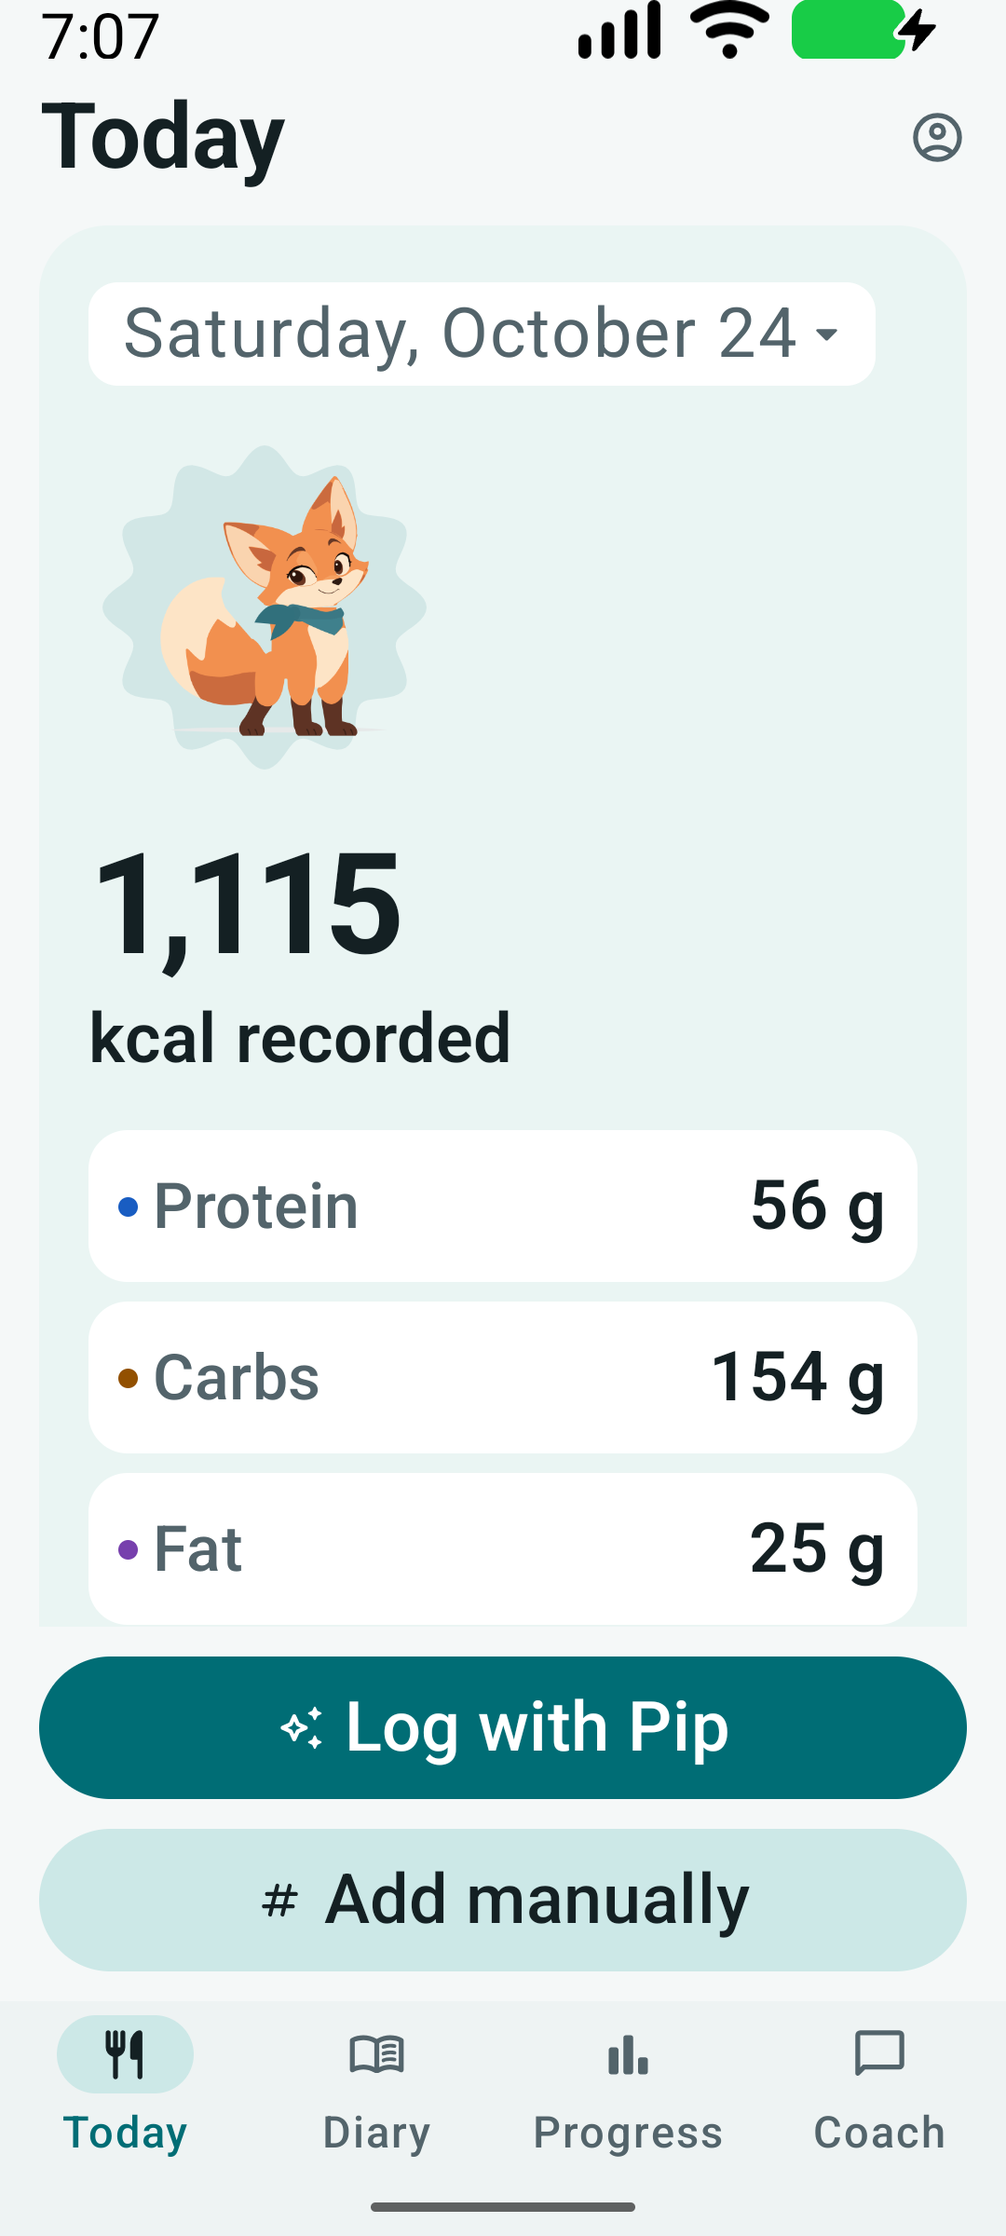
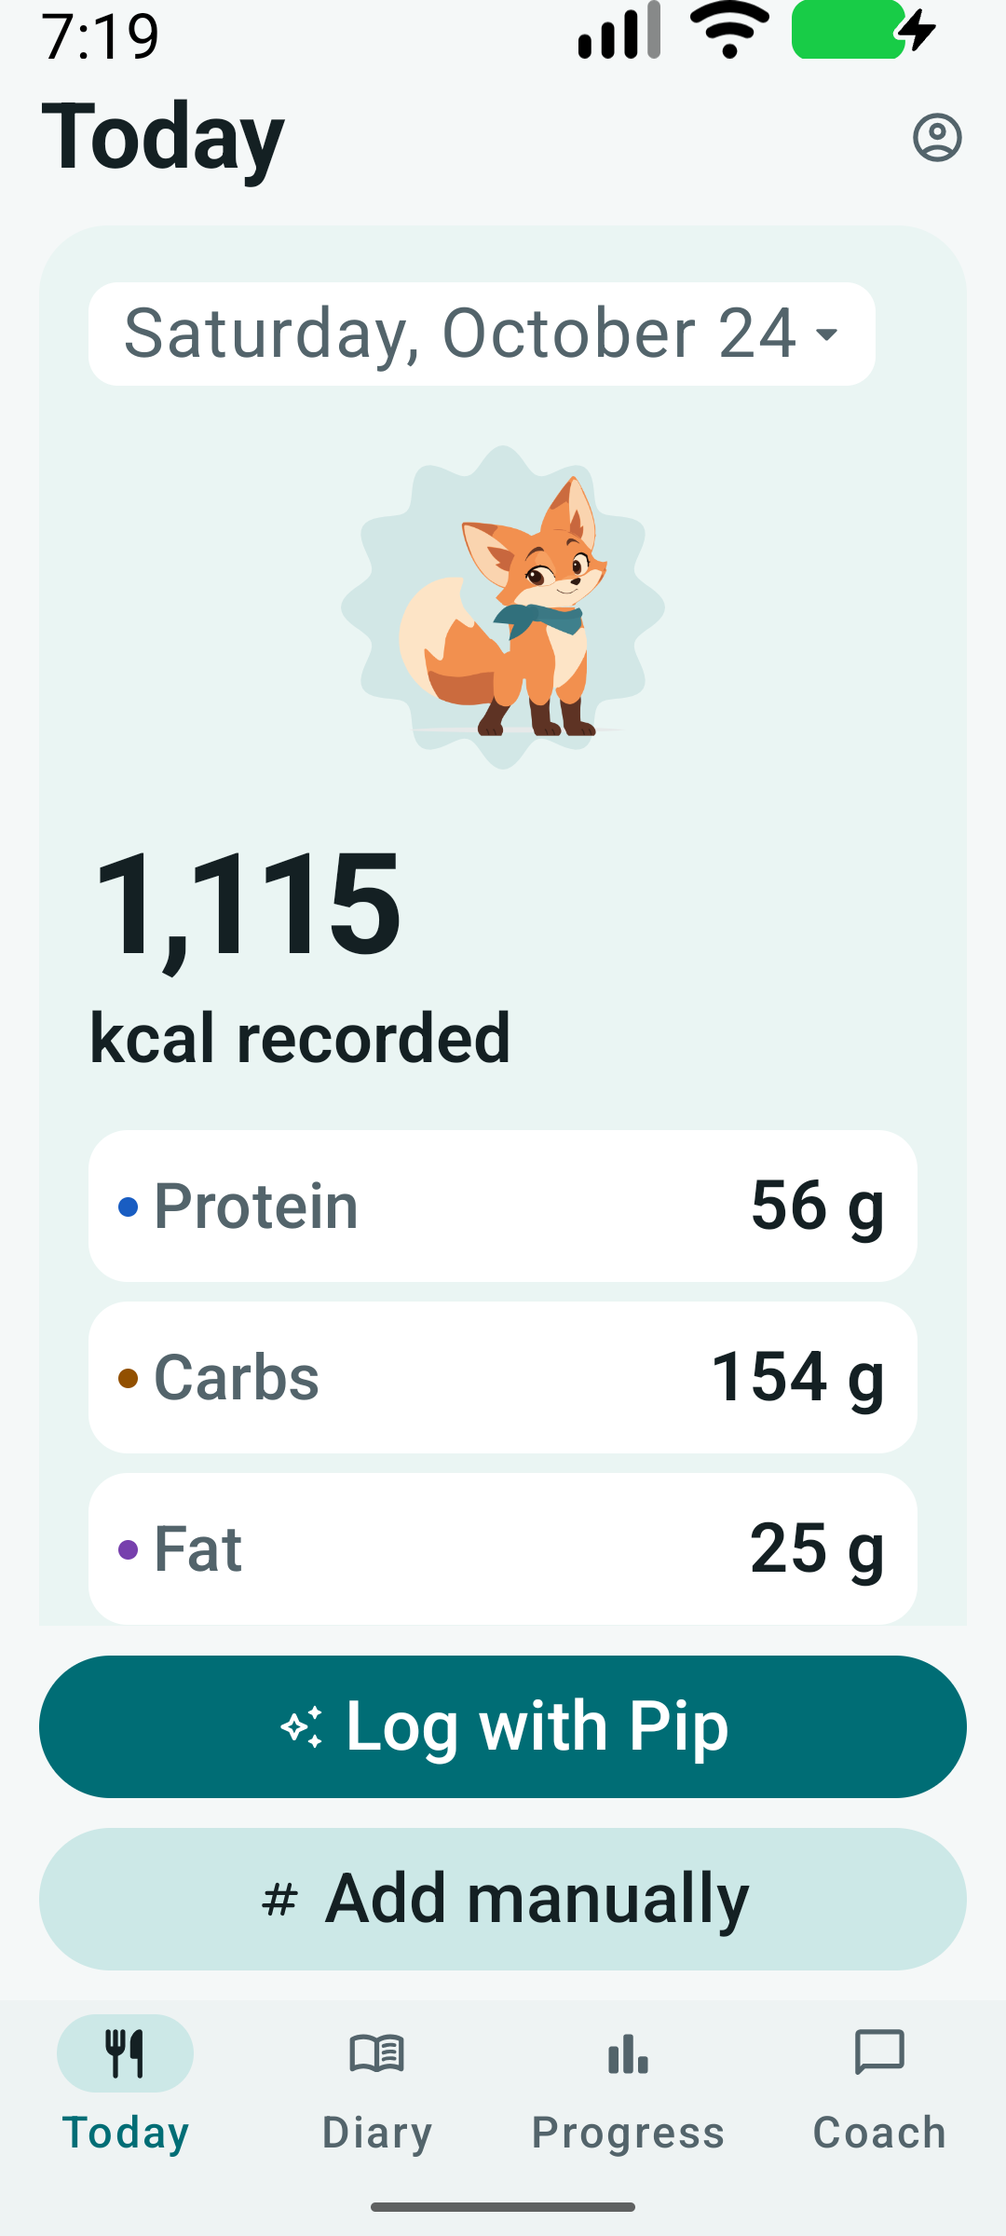
fix(android): keep Today light on memory and report new-day failures

diff --git a/android/app/src/main/java/com/yakov103/mivu/ui/today/TodayScreen.kt b/android/app/src/main/java/com/yakov103/mivu/ui/today/TodayScreen.kt
@@ -29,10 +29,14 @@ import androidx.compose.material3.FilledTonalButton
 import androidx.compose.material3.Icon
 import androidx.compose.material3.LinearProgressIndicator
 import androidx.compose.material3.MaterialTheme
+import androidx.compose.material3.SnackbarHost
+import androidx.compose.material3.SnackbarHostState
 import androidx.compose.material3.Surface
 import androidx.compose.material3.Text
 import androidx.compose.runtime.Composable
+import androidx.compose.runtime.LaunchedEffect
 import androidx.compose.runtime.getValue
+import androidx.compose.runtime.remember
 import androidx.compose.runtime.mutableStateOf
 import androidx.compose.runtime.saveable.rememberSaveable
 import androidx.compose.runtime.setValue
@@ -69,22 +73,27 @@ fun TodayScreen(
     onAddManually: (dayID: UUID?) -> Unit,
     onLogMeal: () -> Unit,
 ) {
+    val snackbar = remember { SnackbarHostState() }
+    LaunchedEffect(viewModel) { viewModel.messages.collect { snackbar.showSnackbar(it, withDismissAction = true) } }
     val state = viewModel.state.collectAsStateWithLifecycle().value ?: return Box(Modifier.fillMaxSize())
     Column(Modifier.fillMaxSize()) {
-        LazyColumn(
-            Modifier.weight(1f).fillMaxWidth(),
-            contentPadding = PaddingValues(start = Gutter, end = Gutter, top = 4.dp, bottom = 16.dp),
-            verticalArrangement = Arrangement.spacedBy(12.dp),
-        ) {
-            if (state.sampleMode) item(key = "sample") { SampleBanner() }
-            state.savedReceipt?.let { id -> item(key = "receipt") { SavedReceipt { onOpenMeal?.invoke(id) } } }
-            item(key = "summary") { SummaryCard(state, viewModel::startNewDay) }
-            item(key = "mealsHeader") {
-                Text("Meals", Modifier.padding(top = 12.dp).semantics { heading() },
-                    style = MaterialTheme.typography.titleLarge, fontWeight = FontWeight.Bold)
+        Box(Modifier.weight(1f).fillMaxWidth()) {
+            LazyColumn(
+                Modifier.fillMaxSize(),
+                contentPadding = PaddingValues(start = Gutter, end = Gutter, top = 4.dp, bottom = 16.dp),
+                verticalArrangement = Arrangement.spacedBy(12.dp),
+            ) {
+                if (state.sampleMode) item(key = "sample") { SampleBanner() }
+                state.savedReceipt?.let { id -> item(key = "receipt") { SavedReceipt { onOpenMeal?.invoke(id) } } }
+                item(key = "summary") { SummaryCard(state, viewModel::startNewDay) }
+                item(key = "mealsHeader") {
+                    Text("Meals", Modifier.padding(top = 12.dp).semantics { heading() },
+                        style = MaterialTheme.typography.titleLarge, fontWeight = FontWeight.Bold)
+                }
+                if (state.meals.isEmpty()) item(key = "empty") { FirstMealCard() }
+                items(state.meals, key = { it.id }) { meal -> MealCard(meal, viewModel::photoBytes, onOpenMeal) }
             }
-            if (state.meals.isEmpty()) item(key = "empty") { FirstMealCard() }
-            items(state.meals, key = { it.id }) { meal -> MealCard(meal, onOpenMeal) }
+            SnackbarHost(snackbar, Modifier.align(Alignment.BottomCenter).padding(horizontal = Gutter))
         }
         BottomActions(state.sampleMode, onLogWithPip, { onAddManually(state.activeDayID) }, onLogMeal)
     }
@@ -97,7 +106,7 @@ private fun SummaryCard(state: TodayUiState, onStartNewDay: () -> Unit) {
         Column(Modifier.padding(20.dp), verticalArrangement = Arrangement.spacedBy(16.dp)) {
             DayActions(state.displayDate, onStartNewDay)
             if (large) {
-                Pip(144.dp)
+                Box(Modifier.fillMaxWidth(), contentAlignment = Alignment.Center) { Pip(144.dp) }
                 Intake(state)
             } else {
                 Row(verticalAlignment = Alignment.CenterVertically, horizontalArrangement = Arrangement.spacedBy(8.dp)) {
@@ -121,6 +130,7 @@ private fun SummaryCard(state: TodayUiState, onStartNewDay: () -> Unit) {
                 Text("Some nutrients are unknown. Recorded totals may be incomplete.",
                     style = MaterialTheme.typography.bodySmall, color = MaterialTheme.colorScheme.onSurfaceVariant)
             }
+            // shortcut: iOS offers "Set a goal" / "Edit goals" here when there is no kcal target; add it with the goal editor.
             state.goal?.let { Goal(it, large) }
         }
     }
@@ -226,9 +236,9 @@ private fun FirstMealCard() {
 }
 
 @Composable
-private fun MealCard(meal: DiaryMeal, onOpenMeal: ((UUID) -> Unit)?) {
+private fun MealCard(meal: DiaryMeal, loadPhoto: suspend (UUID, UUID) -> ByteArray?, onOpenMeal: ((UUID) -> Unit)?) {
     WhiteCard(Modifier.testTag("mealRow"), onClick = onOpenMeal?.let { { it(meal.id) } }) {
-        MealRow(meal, Modifier.padding(16.dp))
+        MealRow(meal, loadPhoto, Modifier.padding(16.dp))
     }
 }
 

diff --git a/android/app/src/main/java/com/yakov103/mivu/diary/DiaryDatabase.kt b/android/app/src/main/java/com/yakov103/mivu/diary/DiaryDatabase.kt
@@ -8,6 +8,7 @@ import android.database.DatabaseUtils
 import android.database.sqlite.SQLiteConstraintException
 import android.database.sqlite.SQLiteDatabase
 import android.database.sqlite.SQLiteDatabaseLockedException
+import android.database.sqlite.SQLiteDoneException
 import android.os.ParcelFileDescriptor
 import androidx.annotation.VisibleForTesting
 import java.io.Closeable
@@ -114,9 +115,12 @@ class DiaryDatabase private constructor(private val db: SQLiteDatabase, private 
         fun isLive(kind: Tombstone, id: UUID): Boolean = exists(kind.name, id)
         fun isTombstoned(kind: Tombstone, id: UUID): Boolean = exists("tombstone_${kind.name}", id)
         fun days(): List<TrackingDay> = this@DiaryDatabase.days()
-        /** One day's meals, as iOS `readModel`: bounded by the day instead of loading every meal's photos. */
+        /**
+         * One day's meals for list screens, as iOS `readModel`: photos carry their ID and metadata with empty `data`;
+         * read the bytes one photo at a time with [photoBytes].
+         */
         fun dayMeals(dayID: UUID): List<DiaryMeal> =
-            records("meal", DiaryMeal.serializer(), "parent = ?", dayID).mapNotNull { meal(it.second.id) }
+            meals("parent = ?", "parent IN (SELECT id FROM meal WHERE parent = ?)", dayID, photoBytes = false)
         fun goals(): List<GoalRecord> = records("goal", GoalRecord.serializer()).map { it.second }
         fun dayWorkouts(dayID: UUID): List<WorkoutSession> = records("workout", WorkoutSession.serializer(), "parent = ?", dayID).map { it.second }
         fun coachTurnsWithoutPhotos(): List<CoachTurn> = this@DiaryDatabase.coachTurnsWithoutPhotos()
@@ -256,6 +260,12 @@ class DiaryDatabase private constructor(private val db: SQLiteDatabase, private 
             else runCatching { UUID.fromString(it.getString(0)) to UUID.fromString(it.getString(1)) }
                 .getOrElse { throw DiaryError.InvalidData("submission") }
         }
+    }
+
+    /** One meal photo's bytes, or null when the photo is gone. */
+    fun photoBytes(mealID: UUID, photoID: UUID): ByteArray? = immediate {
+        head() // owner check
+        try { bytes("photo", "${mealID.key}/${photoID.key}") } catch (_: SQLiteDoneException) { null }
     }
 
     fun head(): Head = readHead() ?: throw DiaryError.InvalidData("no diary")
@@ -438,17 +448,20 @@ class DiaryDatabase private constructor(private val db: SQLiteDatabase, private 
             row to value
         }
 
-    private fun photos(table: String, where: String? = null, arg: UUID? = null): Map<String?, List<MealPhoto>> =
-        records(table, MealPhoto.serializer(), where, arg).groupBy({ it.first.parent }, { (r, p) -> p.copy(data = bytes(table, r.id)) })
+    private fun photos(table: String, where: String? = null, arg: UUID? = null, withBytes: Boolean = true): Map<String?, List<MealPhoto>> =
+        records(table, MealPhoto.serializer(), where, arg)
+            .groupBy({ it.first.parent }, { (r, p) -> if (withBytes) p.copy(data = bytes(table, r.id)) else p })
 
     private fun days(id: UUID? = null) = records("day", TrackingDay.serializer(), id?.let { "id = ?" }, id).map { it.second }
 
-    private fun meals(id: UUID? = null): List<DiaryMeal> {
-        val child = id?.let { "parent = ?" }
-        val submissions = records("submission", MealSubmission.serializer(), child, id).groupBy({ it.first.parent }, { it.second })
-        val items = records("item", FoodItem.serializer(), child, id).groupBy({ it.first.parent }, { it.second })
-        val photos = photos("photo", child, id)
-        return records("meal", DiaryMeal.serializer(), id?.let { "id = ?" }, id).map { (_, m) ->
+    private fun meals(id: UUID? = null): List<DiaryMeal> = meals(id?.let { "id = ?" }, id?.let { "parent = ?" }, id)
+
+    /** Meals matching [where] with their children matching [childWhere], both bound to [arg]. */
+    private fun meals(where: String?, childWhere: String?, arg: UUID?, photoBytes: Boolean = true): List<DiaryMeal> {
+        val submissions = records("submission", MealSubmission.serializer(), childWhere, arg).groupBy({ it.first.parent }, { it.second })
+        val items = records("item", FoodItem.serializer(), childWhere, arg).groupBy({ it.first.parent }, { it.second })
+        val photos = photos("photo", childWhere, arg, photoBytes)
+        return records("meal", DiaryMeal.serializer(), where, arg).map { (_, m) ->
             m.copy(items = items[m.id.key].orEmpty(), photos = photos[m.id.key].orEmpty(), submissions = submissions[m.id.key].orEmpty())
         }
     }

diff --git a/android/app/src/main/java/com/yakov103/mivu/ui/today/TodayViewModel.kt b/android/app/src/main/java/com/yakov103/mivu/ui/today/TodayViewModel.kt
@@ -3,6 +3,7 @@ package com.yakov103.mivu.ui.today
 import android.text.format.DateFormat
 import androidx.lifecycle.ViewModel
 import androidx.lifecycle.viewModelScope
+import com.yakov103.mivu.diary.DiaryError
 import com.yakov103.mivu.diary.DiaryMeal
 import com.yakov103.mivu.diary.DiaryRepository
 import com.yakov103.mivu.diary.GoalRecord
@@ -19,7 +20,11 @@ import java.util.Locale
 import java.util.UUID
 import kotlin.math.abs
 import kotlinx.coroutines.Dispatchers
+import kotlinx.coroutines.channels.Channel
+import kotlinx.coroutines.flow.Flow
 import kotlinx.coroutines.flow.MutableStateFlow
+import kotlinx.coroutines.flow.receiveAsFlow
+import kotlinx.coroutines.withContext
 import kotlinx.coroutines.flow.SharingStarted
 import kotlinx.coroutines.flow.StateFlow
 import kotlinx.coroutines.flow.combine
@@ -72,20 +77,41 @@ class TodayViewModel(private val repository: DiaryRepository, private val profil
     /** The "Saved on this phone" receipt after a capture screen saves [mealID]. */
     fun showReceipt(mealID: UUID) { receipt.value = mealID }
 
-    /** No confirmation, as iOS: a repeated start reuses the open day. */
+    private val _messages = Channel<String>(Channel.BUFFERED)
+
+    /** One-shot failure messages for the snackbar, as iOS's "Could not complete action" alert. */
+    val messages: Flow<String> = _messages.receiveAsFlow()
+
+    /** No confirmation, as iOS: a repeated start reuses the open day. A write that raced this one is retried once. */
     fun startNewDay() {
         viewModelScope.launch(Dispatchers.IO) {
             val db = repository.database(profileID)
-            // shortcut: a failed start (a concurrent write) is dropped like a no-op tap; surface it once Today has an error banner.
-            runCatching { db.startDay(Instant.now(), db.head().revision) }
+            val start = { db.startDay(Instant.now(), db.head().revision) }
+            try {
+                try { start() } catch (_: DiaryError.StaleRevision) { start() }
+            } catch (e: Exception) {
+                _messages.send("Could not complete action. ${failureMessage(e)}")
+            }
         }
     }
+
+    /** The first photo's bytes for a meal thumbnail, read off the main thread. */
+    suspend fun photoBytes(mealID: UUID, photoID: UUID): ByteArray? =
+        withContext(Dispatchers.IO) { runCatching { repository.database(profileID).photoBytes(mealID, photoID) }.getOrNull() }
 
     private fun load(): TodayData = repository.database(profileID).read { tx ->
         val day = tx.head.activeDayID?.let(tx::day)
         if (day == null) TodayData(null, emptyList(), emptyList(), emptyList())
         else TodayData(day, tx.dayMeals(day.id), tx.goals(), tx.dayWorkouts(day.id))
     }
+}
+
+/** iOS `DiaryError.errorDescription` for the errors a Today action can meet, else iOS's fallback. */
+internal fun failureMessage(e: Throwable): String = when (e) {
+    is DiaryError.InvalidData -> "This diary contains invalid or unsupported data."
+    DiaryError.WrongOwner -> "The profile changed. Please try again."
+    DiaryError.NotFound -> "This diary entry no longer exists."
+    else -> "Could not save on this phone. Your input is still here."
 }
 
 internal fun todayUiState(

diff --git a/android/app/src/main/java/com/yakov103/mivu/ui/today/MealRow.kt b/android/app/src/main/java/com/yakov103/mivu/ui/today/MealRow.kt
@@ -85,7 +85,7 @@ val SubmissionState.color: Color
 
 /** One meal: thumbnail, title, time or state, kcal when saved, and its macro bar. Stacks at large text. */
 @Composable
-fun MealRow(meal: DiaryMeal, modifier: Modifier = Modifier) {
+fun MealRow(meal: DiaryMeal, loadPhoto: suspend (mealID: UUID, photoID: UUID) -> ByteArray?, modifier: Modifier = Modifier) {
     val large = isLargeText()
     val state = meal.state
     val needsReview = state == SubmissionState.awaitingReview
@@ -96,7 +96,7 @@ fun MealRow(meal: DiaryMeal, modifier: Modifier = Modifier) {
     } else "${state.title} · $time"
     val totals = nutritionTotals(meal.items)
 
-    val thumbnail = @Composable { MealThumbnail(meal.photos.firstOrNull()) }
+    val thumbnail = @Composable { MealThumbnail(meal.id, meal.photos.firstOrNull(), loadPhoto) }
     val text = @Composable { m: Modifier ->
         Column(m, verticalArrangement = Arrangement.spacedBy(4.dp)) {
             Row(verticalAlignment = Alignment.CenterVertically, horizontalArrangement = Arrangement.spacedBy(6.dp)) {
@@ -134,15 +134,18 @@ fun MealRow(meal: DiaryMeal, modifier: Modifier = Modifier) {
 
 private val THUMBNAIL = 56.dp
 
-// Decoded thumbnails by photo ID; the bytes of a stored photo never change under its ID.
+// Decoded thumbnails by photo ID (bytes are loaded by ID, never held in screen state); a stored photo never changes under its ID.
 private val thumbnails = LruCache<UUID, ImageBitmap>(64)
 
 @Composable
-private fun MealThumbnail(photo: MealPhoto?) {
+private fun MealThumbnail(mealID: UUID, photo: MealPhoto?, loadPhoto: suspend (UUID, UUID) -> ByteArray?) {
     val shape = RoundedCornerShape(14.dp)
     val px = with(LocalDensity.current) { THUMBNAIL.roundToPx() }
     val bitmap by produceState(photo?.let { thumbnails.get(it.id) }, photo?.id) {
-        if (photo != null && value == null) value = withContext(Dispatchers.Default) { decode(photo.data, px) }?.also { thumbnails.put(photo.id, it) }
+        if (photo != null && value == null) {
+            val bytes = loadPhoto(mealID, photo.id) ?: return@produceState
+            value = withContext(Dispatchers.Default) { decode(bytes, px) }?.also { thumbnails.put(photo.id, it) }
+        }
     }
     val image = bitmap
     if (image != null) {

diff --git a/android/app/src/androidTest/java/com/yakov103/mivu/ui/today/TodayScreenTest.kt b/android/app/src/androidTest/java/com/yakov103/mivu/ui/today/TodayScreenTest.kt
@@ -23,10 +23,12 @@ import androidx.compose.ui.test.performScrollTo
 import androidx.compose.ui.unit.Density
 import androidx.test.core.app.ApplicationProvider
 import com.yakov103.mivu.diary.Bootstrap
+import com.yakov103.mivu.diary.DiaryError
 import com.yakov103.mivu.diary.DiaryRepository
 import com.yakov103.mivu.ui.MivuApp
 import com.yakov103.mivu.ui.theme.MivuTheme
 import org.junit.After
+import org.junit.Assert.assertEquals
 import org.junit.Assert.assertNotNull
 import org.junit.Assert.assertTrue
 import org.junit.Before
@@ -99,6 +101,31 @@ class TodayScreenTest {
         compose.waitUntil(10_000) { repository!!.database(id).head().activeDayID != null }
         compose.waitUntil(10_000) { compose.onAllNodes(hasText("No meals recorded")).fetchSemanticsNodes().isEmpty() }
         assertNotNull(repository!!.database(id).head().activeDayID)
+    }
+
+    @Test fun startNewDayRetriesARacedWriteOnce() {
+        val id = TodayFixture.diary(context)
+        launch()
+        waitFor("todayDayActions")
+        var raced = false
+        repository!!.database(id).beforeCommit = { if (!raced) { raced = true; throw DiaryError.StaleRevision } }
+        compose.onNodeWithTag("todayDayActions").performClick()
+        compose.onNodeWithTag("startNewDay").performClick()
+        compose.waitUntil(10_000) { repository!!.database(id).head().activeDayID != null }
+        assertTrue(raced)
+        compose.onAllNodes(hasText("Could not complete action", substring = true)).assertCountEquals(0)
+    }
+
+    @Test fun startNewDayFailureShowsSnackbar() {
+        val id = TodayFixture.diary(context)
+        launch()
+        waitFor("todayDayActions")
+        repository!!.database(id).beforeCommit = { throw DiaryError.InvalidData("synthetic") }
+        compose.onNodeWithTag("todayDayActions").performClick()
+        compose.onNodeWithTag("startNewDay").performClick()
+        waitForText("Could not complete action. This diary contains invalid or unsupported data.")
+        assertEquals(null, repository!!.database(id).head().activeDayID)
+        repository!!.database(id).beforeCommit = null
     }
 
     @Test fun addManuallyOpensManualEntry() {

diff --git a/android/app/src/main/java/com/yakov103/mivu/ui/MivuApp.kt b/android/app/src/main/java/com/yakov103/mivu/ui/MivuApp.kt
@@ -40,9 +40,7 @@ import androidx.compose.ui.semantics.semantics
 import androidx.compose.ui.text.font.FontWeight
 import androidx.compose.ui.text.style.TextAlign
 import androidx.compose.ui.unit.dp
-import androidx.compose.ui.unit.Density
 import androidx.compose.ui.platform.LocalDensity
-import androidx.compose.runtime.CompositionLocalProvider
 import androidx.navigation.NavDestination.Companion.hasRoute
 import androidx.navigation.NavGraph.Companion.findStartDestination
 import androidx.navigation.compose.NavHost
@@ -169,11 +167,11 @@ private fun Shell(repository: DiaryRepository, profileID: UUID) {
                         onClick = { selectTab(tab.route) },
                         icon = { Icon(painterResource(if (selected) tab.selectedIcon else tab.icon), contentDescription = null) },
                         label = {
-                            // Labels scale to 150% at most: at 200% "Progress" no longer fits a quarter of a phone and breaks mid-word.
-                            val density = LocalDensity.current
-                            CompositionLocalProvider(LocalDensity provides Density(density.density, minOf(density.fontScale, 1.5f))) {
-                                Text(tab.label, maxLines = 1)
-                            }
+                            // The label grows with the system's (nonlinear) font scale up to 18 dp: at 200% a full-size
+                            // "Progress" no longer fits a quarter of a phone and breaks mid-word.
+                            val style = MaterialTheme.typography.labelMedium
+                            val size = with(LocalDensity.current) { minOf(style.fontSize.toDp(), 18.dp).toSp() }
+                            Text(tab.label, maxLines = 1, style = style.copy(fontSize = size, lineHeight = size * 1.34f))
                         },
                     )
                 }

diff --git a/android/app/src/androidTest/java/com/yakov103/mivu/diary/DiaryDatabaseTest.kt b/android/app/src/androidTest/java/com/yakov103/mivu/diary/DiaryDatabaseTest.kt
@@ -59,6 +59,18 @@ class DiaryDatabaseTest {
         assertEquals(fixture.lineage, db.head().lineage)
     }
 
+    @Test fun dayMealsLeavePhotoBytesToPhotoBytes() {
+        val withPhotos = fixture.meals.filter { it.photos.isNotEmpty() }
+        assertTrue("fixture has a photo meal", withPhotos.isNotEmpty())
+        for (day in fixture.days) {
+            val expected = fixture.meals.filter { it.dayID == day.id }.map { m -> m.copy(photos = m.photos.map { it.copy(data = ByteArray(0)) }) }
+            assertEquals(expected, db.read { it.dayMeals(day.id) })
+        }
+        val meal = withPhotos.first()
+        assertTrue(meal.photos.first().data.contentEquals(db.photoBytes(meal.id, meal.photos.first().id)))
+        assertEquals(null, db.photoBytes(meal.id, UUID.randomUUID()))
+    }
+
     @Test fun transactionBumpsRevisionAndLineage() {
         val before = db.head()
         val added = weight()
